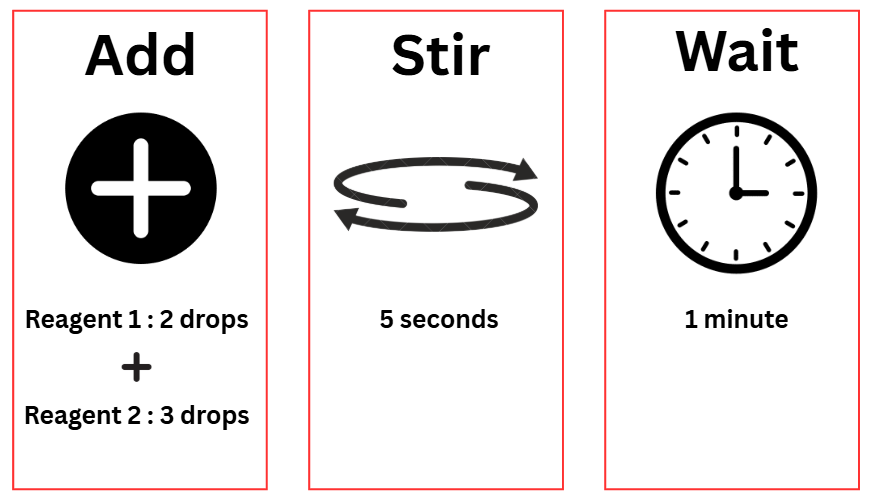
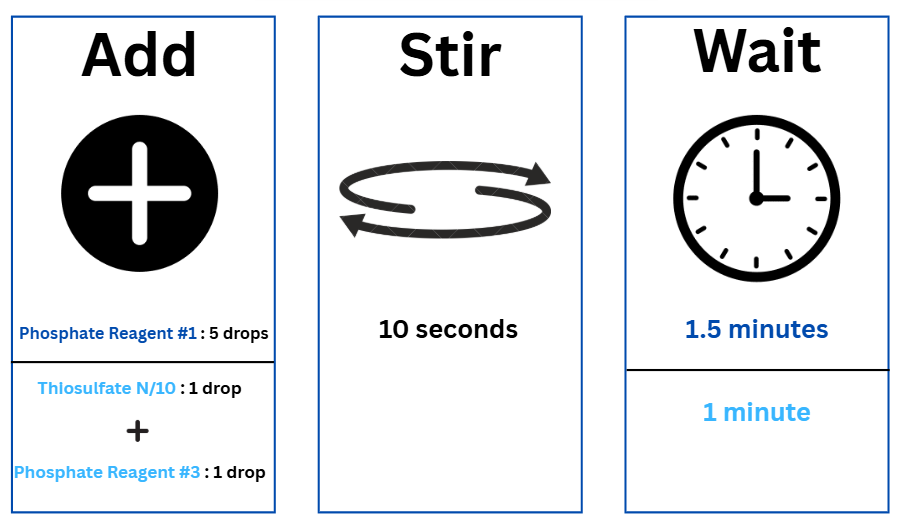
Main page pic updates (#46)

diff --git a/src/client/app/main/page.tsx b/src/client/app/main/page.tsx
@@ -118,14 +118,14 @@ export default function Page() {
         <Sidebar open={sidebarOpen} />
         <main className={`flex-1 transition-all duration-300 ${sidebarOpen ? "ml-64" : "ml-0"}`}>
           <TopMenu onToggleSidebar={() => setSidebarOpen((prevOpen) => !prevOpen)}/>
-          <div className="grid ]grid-cols-1 lg:grid-cols-3 gap-4 p-4">
+          <div className="grid grid-cols-1 lg:grid-cols-3 gap-4 p-4">
             <div className="bg-white rounded-lg shadow p-4 h-full relative">
               <h2 className="text-xl font-semibold">Chlorine</h2>
-              <img src="/TestProcedureP.png"alt="Chlorine Test Procedure"className="mt-4 rounded-lg object-contain w-full h-[20rem] hover:scale-[1.02] transition-transform duration-200"/>
+              <img src="/TestProcedureC.png"alt="Chlorine Test Procedure"className="mt-4 rounded-lg object-contain w-full h-[20rem] hover:scale-[1.02] transition-transform duration-200"/>
             </div>
             <div className="bg-white rounded-lg shadow p-4 h-full relative">
               <h2 className="text-xl font-semibold">Phosphate</h2>
-              <img src="/TestProcedure2.png"alt="Phosphate Test Procedure"className="mt-4 rounded-lg object-contain w-full h-[20rem] hover:scale-[1.02] transition-transform duration-200"/>
+              <img src="/TestProcedureP.png"alt="Phosphate Test Procedure"className="mt-4 rounded-lg object-contain w-full h-[20rem] hover:scale-[1.02] transition-transform duration-200"/>
               <div className="mt-4">
                 <p className="text-gray-700 mb-2">Watch the guide on how to perform the phosphate test.</p>
                 <button type="button"onClick={() => setShowVideo(true)}className="inline-block px-4 py-2 rounded bg-blue-600 text-white text-sm font-medium hover:bg-blue-700 transition-colors duration-200">View Test Procedure</button>
@@ -186,28 +186,28 @@ export default function Page() {
                 </thead>
                 <tbody>
                   <tr>
-                    <td className="px-6 py-3 border border-gray-200 text-center">10 - 20 µm</td>
+                    <td className="px-6 py-3 border border-gray-200 text-center"> &gt; 250 µm</td>
                     <td className="px-6 py-3 border border-gray-200 text-center">
-                      <span className="inline-flex items-center bg-green-100 text-green-700 px-3 py-1 rounded-full">
-                        <span className="w-2 h-2 bg-green-500 rounded-full mr-2"></span>Large</span>
+                      <span className="inline-flex items-center bg-green-100 text-green-700 px-3 py-1 rounded-full transition-all duration-200 hover:bg-green-200 hover:scale-105">
+                        <span className="w-2 h-2 bg-green-500 rounded-full mr-2"></span>Coarse Sands</span>
                     </td>
-                    <td className="px-6 py-3 border border-gray-200">51 - 100</td>
+                    <td className="px-6 py-3 border border-gray-200">7</td>
                     </tr>
                     <tr>
-                      <td className="px-6 py-3 border border-gray-200 text-center">5 - 10</td>
+                      <td className="px-6 py-3 border border-gray-200 text-center">63µm - 250µm</td>
                       <td className="px-6 py-3 border border-gray-200 text-center">
-                      <span className="inline-flex items-center bg-orange-100 text-orange-700 px-3 py-1 rounded-full">
-                        <span className="w-2 h-2 bg-orange-500 rounded-full mr-2"></span>Medium</span>
+                      <span className="inline-flex items-center bg-orange-100 text-orange-700 px-3 py-1 rounded-full transition-all duration-200 hover:bg-orange-200 hover:scale-105">
+                        <span className="w-2 h-2 bg-orange-500 rounded-full mr-2"></span>Fine Sands</span>
                     </td>
-                    <td className="px-6 py-3 border border-gray-200 text-center">26 - 50</td>
+                    <td className="px-6 py-3 border border-gray-200 text-center">62</td>
                   </tr>
                   <tr>
-                    <td className="px-6 py-3 border border-gray-200 text-center">0 - 5</td>
+                    <td className="px-6 py-3 border border-gray-200 text-center">10µm - 63µm</td>
                     <td className="px-6 py-3 border border-gray-200 text-center">
-                      <span className="inline-flex items-center bg-red-100 text-red-700 px-3 py-1 rounded-full">
-                        <span className="w-2 h-2 bg-red-500 rounded-full mr-2"></span>Small</span>
+                      <span className="inline-flex items-center bg-red-100 text-red-700 px-3 py-1 rounded-full transition-all duration-200 hover:bg-orange-200 hover:scale-105">
+                        <span className="w-2 h-2 bg-red-500 rounded-full mr-2"></span>Pollen/Algae</span>
                     </td>
-                    <td className="px-6 py-3 border border-gray-200 text-center">0 - 25</td>
+                    <td className="px-6 py-3 border border-gray-200 text-center">15</td>
                   </tr>
                 </tbody>
               </table>
